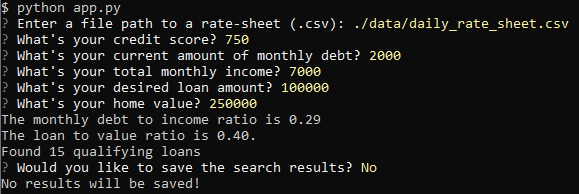
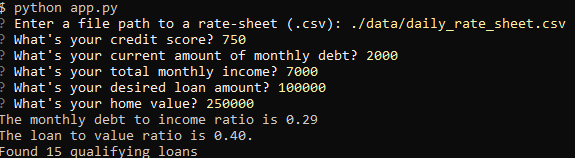
README.md Usage section updated, new images added

Changed region(s): [[0.0, 0.0, 1.0, 1.0]]

diff --git a/README.md b/README.md
@@ -1,6 +1,6 @@
 # **Loan Qualifier**
 
-## Loan qualifier is an interactive tool that allows users to identify loan providers, for which a loan applicant would be eligible based on the applicant's credit score, debt-to-income ratio and loan-to-value ratio, as well as the requested loan size.
+### Loan qualifier is an interactive tool that allows users to identify loan providers, for which a loan applicant would be eligible based on the applicant's credit score, debt-to-income ratio and loan-to-value ratio, as well as the requested loan size.
 
 ---
 
@@ -8,11 +8,21 @@
 
 ---
 
+## Table of contents
+
+1. [Technologies](#technologies)
+2. [Installation Guide](#installation-guide)
+3. [Usage](#usage)
+4. [Contributors](#contributors)
+5. [License](#license)
+
+---
+
 ## Technologies
 
 `Python 3.9`
 
-_Prerequisites_
+**Prerequisites**
 
 fire and Questionary are python libraries that enable command line interfaces (CLI).
 Users can provide an input to the code by using CLI's when running the program:
@@ -45,12 +55,19 @@ pip install questionary
 
 ## Usage
 
-To use the application launch it from your shall/terminal/Git Bash. Once launched, a number of questions relating to the loan application will appear on the screen. Your answers to those questions will serve as filters the tool will apply to the list of loan providers.
+To use the application launch it from your terminal. <br />
+Once the app is launched, a number of questions relating to the loan application will appear on the screen. Your answers to those questions will serve as filters to the list of loan providers. <br />
 NOTE: the path requested by the prompt messages is to the data file containg the list of loan providers. <br />
 
-![terminal](images/Terminal.PNG)
+![terminal](images/Terminal_No.PNG)
 
-The tool will output to the screen debt-to-income ratio and loan-to-value ratio of the loan and a number of qualified providers found by allplying the filters, as well as the filtered list of qualifying providers saved in the same directory as the tool.
+The tool will output to the screen the debt-to-income and the loan-to-value ratios of the loan and the number of qualified providers found by applying the filters. <br />
+You will be asked if you would like to save the list of qualified providers. If you respond with a "yes" and there are qualified banks, the output will be saved in the location and the file (in .csv format) specified by you via a command line interface (CLI). <br />
+Some examples of CLI messages and responses are shown below: <br />
+
+![terminal](images/No_save.PNG) <br />
+![terminal](images/Terminal.PNG) <br />
+![terminal](images/Terminal_NoQualifying.PNG)
 
 ---
 
@@ -58,10 +75,10 @@ The tool will output to the screen debt-to-income ratio and loan-to-value ratio 
 
 Contact Details:
 
-Boris Dudkin:
+Boris Dudkin
 
 - [Email](boris.dudkin@gmail.com)
-- [LinkedIn](www.linkedin.com/in/Boris-Dudkin)
+- [LinkedIn](https://www.linkedin.com/in/Boris-Dudkin/)
 
 ---
 
